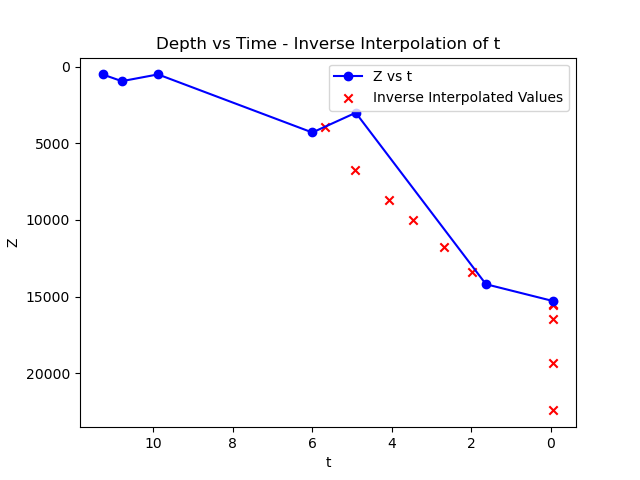
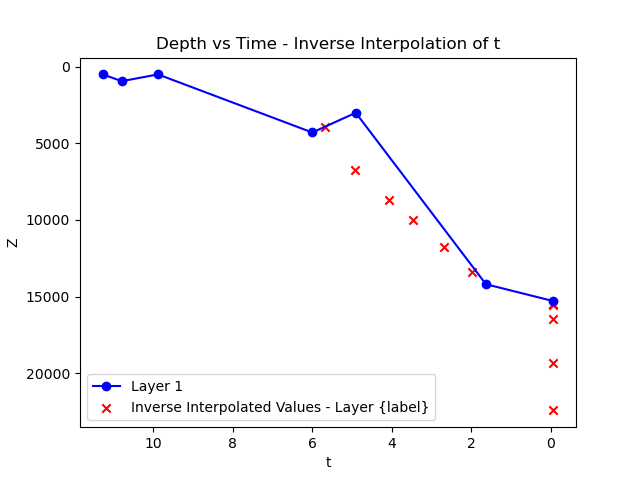
Plotting the inversed time all at once.

diff --git a/mains/data/python/script3.py b/mains/data/python/script3.py
@@ -1,27 +1,46 @@
 from inverse_time_interpolator import TimeInterpolatorPlotter
+import matplotlib.pyplot as plt
 
 if __name__ == "__main__":
-    def process_burial_history(layer_number):
+    def process_burial_history(layers_to_process):
         inverted_z_file = "/home/juanse/Documents/GitHub/HC-TTIExp/mains/data/burial_history/inversion/burial_history_layer_5_with_inverse.txt"
         
-        data_file_path = f"/home/juanse/Documents/GitHub/HC-TTIExp/mains/data/burial_history/burial_history_layer_{layer_number}.txt"
-        output_file_path = f"/home/juanse/Documents/GitHub/HC-TTIExp/mains/data/burial_history/inversion/burial_history_layer_{layer_number}_with_inverse_time.txt"
-        output_plot_path = f"/home/juanse/Documents/GitHub/HC-TTIExp/mains/data/burial_history/inversion/burial_history_layer_{layer_number}_with_inverse_time.png"
+
+        plt.figure(figsize=(12, 8))
+        for layer_number in layers_to_process:
+            data_file_path = f"/home/juanse/Documents/GitHub/HC-TTIExp/mains/data/burial_history/burial_history_layer_{layer_number}.txt"
+            output_file_path = f"/home/juanse/Documents/GitHub/HC-TTIExp/mains/data/burial_history/inversion/burial_history_layer_{layer_number}_with_inverse_time.txt"
+            output_plot_path = f"/home/juanse/Documents/GitHub/HC-TTIExp/mains/data/burial_history/inversion/burial_history_layer_{layer_number}_with_inverse_time.png"
 
 
-        plotter = TimeInterpolatorPlotter(data_file_path)
-        plotter.inverse_interpolate_t(inverted_z_file)
+            plotter = TimeInterpolatorPlotter(data_file_path)
+            plotter.inverse_interpolate_t(inverted_z_file)
 
-        # Save the results to a txt file
-        plotter.save_results_inverse_t(output_file_path)
-        # Plot, save and show the inverse t plot
-        plotter.plot_inverse_t()
-        plotter.save_plot_inverse_t(output_plot_path)
-        plotter.show_plot_inverse_t()
+            # Save the results to a txt file
+            plotter.save_results_inverse_t(output_file_path)
+            # Plot, save and show the inverse t plot. 
+            #COMMENT THE LAST TWO IF YOU WANT TO PLOT EVERYTHING IN A SINGLE FIGURE
+            plotter.plot_inverse_t(label=layer_number)
+            #plotter.save_plot_inverse_t(output_plot_path)
+            #plotter.show_plot_inverse_t()
+
+        #Customize the combined plot
+        plt.xlabel('t')
+        plt.ylabel('Z')
+        plt.title('Burial history - Inverse interpolation of t')
+        plt.legend()
+        plt.gca().invert_xaxis()
+        plt.gca().invert_yaxis()
+
+        #Save and show the combined plot
+        combine_output_path = "/home/juanse/Documents/GitHub/HC-TTIExp/mains/data/burial_history/inversion/burial_history_with_inverse_time.png"
+        plt.savefig(combine_output_path)
+        print(f"\nFigure saved to {combine_output_path}")
+        plt.show()
 
     # Specify the layers you want to process
     layers_to_process = [0, 1, 2, 3, 4, 6]
 
     # Process each layer
-    for layer_number in layers_to_process:
-        process_burial_history(layer_number)
+    
+    process_burial_history(layers_to_process)

diff --git a/mains/data/python/inverse_time_interpolator.py b/mains/data/python/inverse_time_interpolator.py
@@ -53,15 +53,15 @@ class TimeInterpolatorPlotter:
                 result_str = f"{inverse_interpolated_z} {inverse_interpolated_t}"
                 file.write(result_str + "\n")
 
-        print(f"Results saved to {output_file_path}\n")
+        print(f"Results saved to {output_file_path}")
 
-    def plot_inverse_t(self):
-        plt.plot(self.t_values, self.z_values, marker='o', linestyle='-', color='b', label='Z vs t')
+    def plot_inverse_t(self, label=None):
+        plt.plot(self.t_values, self.z_values, marker='o', linestyle='-', color='b', label=f'Layer {label}')
         
         if self.results_inverse_t:
             inverted_t_values = [result[1] for result in self.results_inverse_t]
             inverted_z_values = [result[0] for result in self.results_inverse_t]
-            plt.scatter(inverted_t_values, inverted_z_values, marker='x', color='r', label='Inverse Interpolated Values')
+            plt.scatter(inverted_t_values, inverted_z_values, marker='x', color='r', label='Inverse Interpolated Values - Layer {label}')
 
         plt.xlabel('t')
         plt.ylabel('Z')
@@ -72,6 +72,6 @@ class TimeInterpolatorPlotter:
 
     def save_plot_inverse_t(self, save_path):
         plt.savefig(save_path)
-
+        print(f"Figure saved to {save_path}\n")
     def show_plot_inverse_t(self):
         plt.show()
